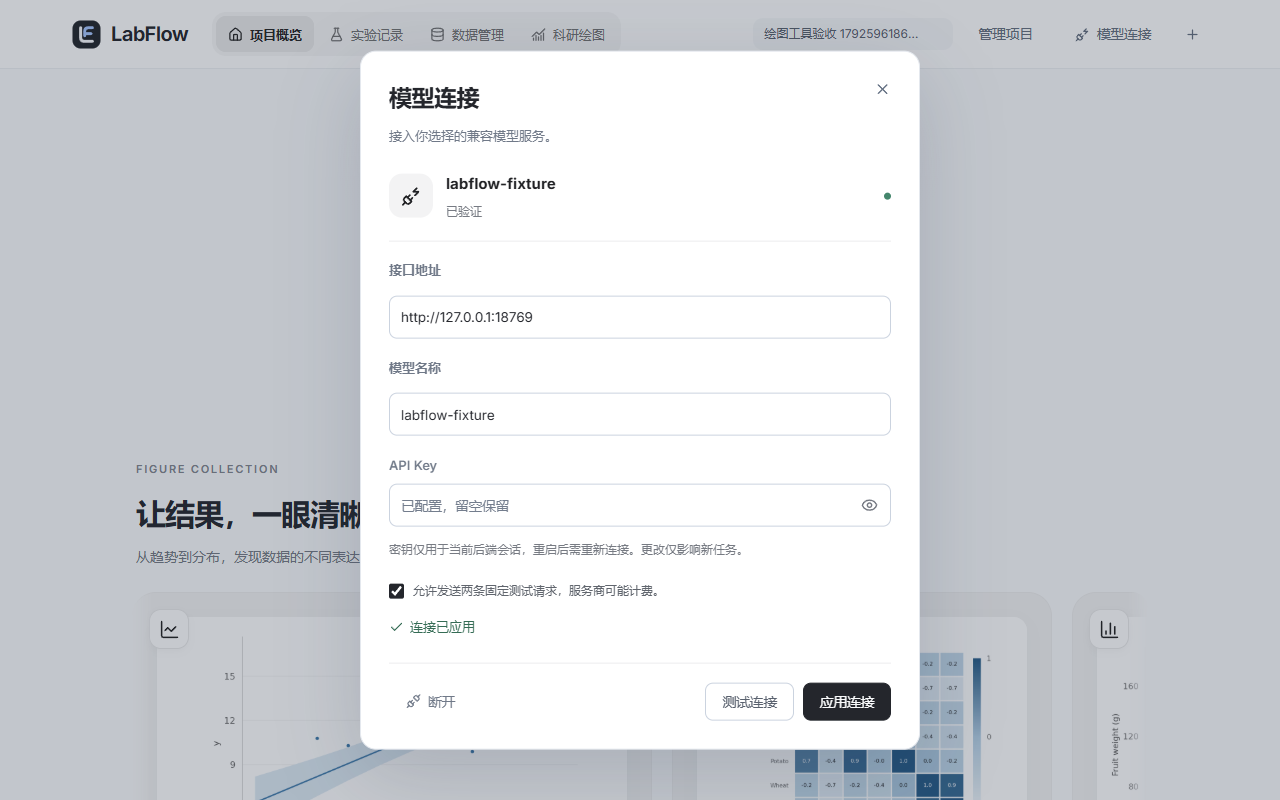
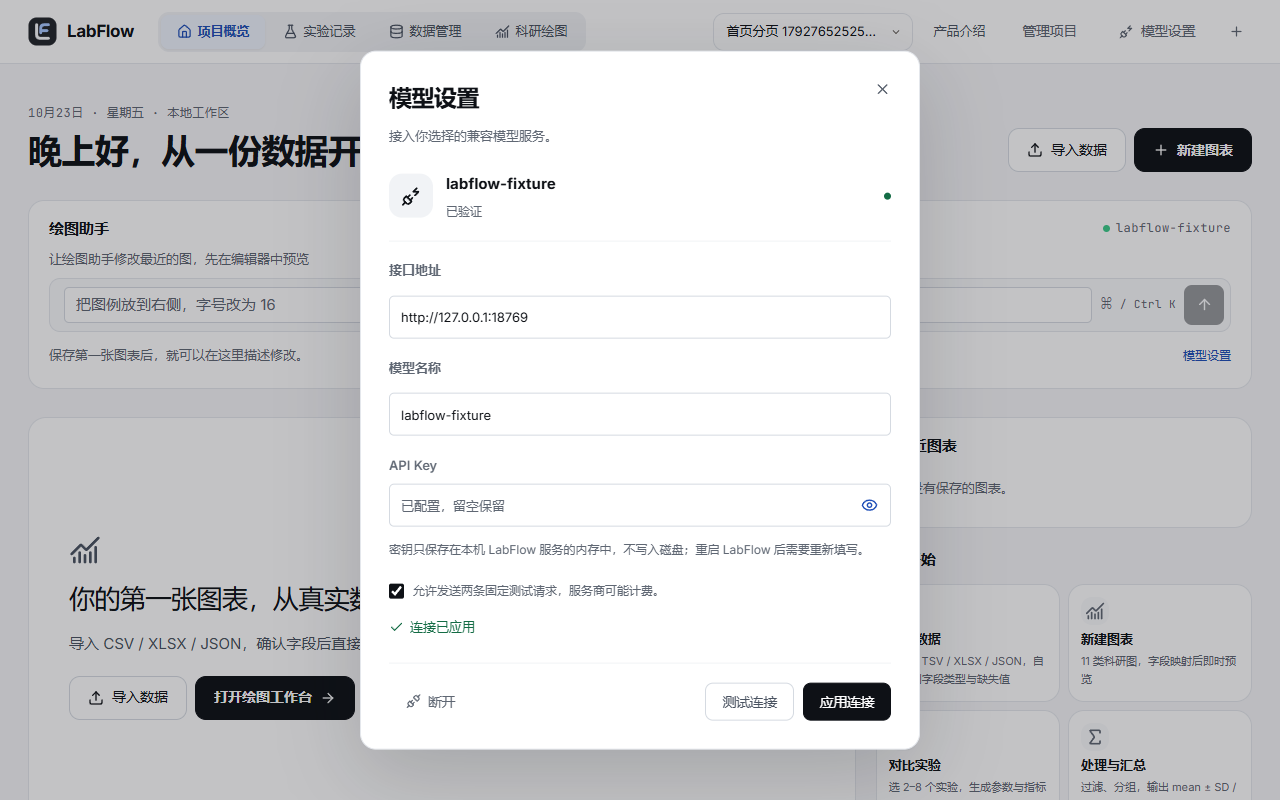
refactor(11-4): speak one vocabulary across the product

diff --git a/frontend/src/components/home/HomeSide.tsx b/frontend/src/components/home/HomeSide.tsx
@@ -85,7 +85,7 @@ export function AssistantCard({chartId,onAssistant,onModelConnection}:{chartId?:
     <div className="home-card-head"><h2 id="home-assistant-title">绘图助手</h2><span className="home-assistant-model lf-mono"><span className={`lf-dot ${provider.data?.available?'is-live':'is-off'}`}/>{provider.data?.available?provider.data.model:'未连接模型'}</span></div>
     <form onSubmit={submit} className="home-assistant-form"><label htmlFor="home-assistant-input">让绘图助手修改最近的图，先在编辑器中预览</label>
       <div className="home-assistant-field"><input ref={input} id="home-assistant-input" value={prompt} maxLength={2000} disabled={!ready} placeholder={examples[example]} onFocus={()=>setFocused(true)} onBlur={()=>setFocused(false)} onChange={e=>setPrompt(e.target.value)}/><kbd className="lf-mono">⌘ / Ctrl K</kbd><button type="submit" aria-label="在编辑器中打开助手" disabled={!ready||!prompt.trim()}><ArrowUp size={17}/></button></div>
-      <div className="home-command-notes">{!chartId?<p>保存第一张图表后，就可以在这里描述修改。</p>:!provider.data?.available?<p>配置模型连接后，即可向绘图助手描述调整。</p>:<div className="home-assistant-chips">{['图例放到右侧','隐藏网格线','整体字号改为 18'].map(text=><button key={text} type="button" onClick={()=>{setPrompt(text);input.current?.focus()}}>{text}</button>)}</div>}{onModelConnection&&<button type="button" className="home-link" onClick={onModelConnection}>{provider.data?.available?'模型设置':'配置模型连接'}</button>}</div>
+      <div className="home-command-notes">{!chartId?<p>保存第一张图表后，就可以在这里描述修改。</p>:!provider.data?.available?<p>完成模型设置后，即可向绘图助手描述调整。</p>:<div className="home-assistant-chips">{['图例放到右侧','隐藏网格线','整体字号改为 18'].map(text=><button key={text} type="button" onClick={()=>{setPrompt(text);input.current?.focus()}}>{text}</button>)}</div>}{onModelConnection&&<button type="button" className="home-link" onClick={onModelConnection}>模型设置</button>}</div>
     </form>
   </section>;
 }

diff --git a/frontend/e2e/model-connection.spec.ts b/frontend/e2e/model-connection.spec.ts
@@ -30,8 +30,11 @@ test("web connection settings → two real HTTP probes → verified apply → se
   const original = await setup(request);
   try {
     await page.goto("/");
-    await page.getByRole("button", { name: "模型连接", exact: true }).click();
-    const dialog = page.getByRole("dialog", { name: "模型连接" });
+    await page
+      .locator(".masthead")
+      .getByRole("button", { name: "模型设置", exact: true })
+      .click();
+    const dialog = page.getByRole("dialog", { name: "模型设置" });
     await expect(dialog.getByLabel("模型名称", { exact: true })).toHaveValue(
       "labflow-fixture",
     );
@@ -76,7 +79,10 @@ test("web connection settings → two real HTTP probes → verified apply → se
     ).toBeInViewport();
     await page.setViewportSize({ width: 1560, height: 1000 });
     await dialog.getByRole("button", { name: "关闭", exact: true }).click();
-    await page.getByRole("button", { name: "模型连接", exact: true }).click();
+    await page
+      .locator(".masthead")
+      .getByRole("button", { name: "模型设置", exact: true })
+      .click();
     await expect(dialog.getByText("已验证", { exact: true })).toBeVisible();
     await expect(dialog.getByLabel("API Key", { exact: true })).toHaveValue("");
     await dialog.getByRole("button", { name: "断开", exact: true }).click();
@@ -121,9 +127,9 @@ test("editor settings expose real authentication failure without replacing the w
   await page.getByRole("button", { name: "绘图助手", exact: true }).click();
   const assistant = page.getByRole("complementary", { name: "绘图助手" });
   await assistant
-    .getByRole("button", { name: "模型连接", exact: true })
+    .getByRole("button", { name: "模型设置", exact: true })
     .click();
-  const dialog = page.getByRole("dialog", { name: "模型连接" });
+  const dialog = page.getByRole("dialog", { name: "模型设置" });
   await dialog.getByLabel("API Key", { exact: true }).fill("fixture-rejected");
   await dialog.getByRole("checkbox").check();
   await dialog.getByRole("button", { name: "测试连接", exact: true }).click();

diff --git a/frontend/src/components/ChartPlanner.tsx b/frontend/src/components/ChartPlanner.tsx
@@ -225,14 +225,14 @@ export default function ChartPlanner(p: {
         }}
         closeDisabled={saving || submitting}
         title="选择绘图方案"
-        description="先看数据适合怎样表达，再决定创建哪张图。"
+        description="先看数据适合怎样表达，再决定创建哪种图表。"
         wide
         className="chart-planner"
       >
         <div className="planner-source">
           <b>{p.data.filename}</b>
           <span>
-            数据版本 v{p.data.version} · {p.data.row_count.toLocaleString()} 行
+            v{p.data.version} · {p.data.row_count.toLocaleString()} 行
             · {p.data.fields.length} 个字段
           </span>
         </div>
@@ -247,7 +247,7 @@ export default function ChartPlanner(p: {
               variant="ghost"
               onClick={() => setConnection(true)}
             >
-              配置模型
+              模型设置
             </Button>
           </div>
           <label>
@@ -322,8 +322,8 @@ export default function ChartPlanner(p: {
           {!provider.data?.available && (
             <p className="muted">
               {provider.isError
-                ? "无法读取模型连接状态。"
-                : "配置模型后可获取推荐；也可以直接在下方手动选图。"}
+                ? "无法读取模型设置状态。"
+                : "完成模型设置后可获取推荐；也可以直接在下方手动选图。"}
             </p>
           )}
           {active && (

diff --git a/frontend/src/editor/ReuseDialog.tsx b/frontend/src/editor/ReuseDialog.tsx
@@ -201,7 +201,7 @@ export function ReuseDialog(p: {
               <div>
                 <h3>
                   {tab === "builtin"
-                    ? "找到适合这张图的表达"
+                    ? "找到适合这张图表的表达"
                     : "把好用的样式留给下一次"}
                 </h3>
                 <p>
@@ -412,7 +412,7 @@ export function ReuseDialog(p: {
                 <p>
                   {search
                     ? "试试其他关键词，或切换到全部项目。"
-                    : "调整好一张图后，保存它的外观，下次直接使用。"}
+                    : "调整好一张图表后，保存它的外观，下次直接使用。"}
                 </p>
                 {!search && (
                   <Button variant="outline" onClick={() => setCreating(true)}>
@@ -549,9 +549,9 @@ export function ReuseDialog(p: {
       ) : (
         <div className="style-reuse-body">
           <label>
-            目标数据版本
+            目标版本
             <select
-              aria-label="复用目标数据版本"
+              aria-label="复用目标版本"
               value={target}
               onChange={(e) => {
                 setTarget(Number(e.target.value));

diff --git a/frontend/src/editor/AgentAssistant.tsx b/frontend/src/editor/AgentAssistant.tsx
@@ -294,7 +294,7 @@ export function AgentAssistant(p: {
         (restored.session.dataset_version_id !== now.data.id ||
           restored.session.chart_id !== now.chartId)
       )
-        throw new Error("恢复记录不属于当前图表或数据版本");
+        throw new Error("恢复记录不属于当前图表或版本");
       const capture = (baseline: NonNullable<typeof restored.baseline>) => ({
         config: baseline.config,
         token:
@@ -521,7 +521,7 @@ export function AgentAssistant(p: {
       <Button
         variant="ghost"
         size="icon"
-        aria-label="模型连接"
+        aria-label="模型设置"
         disabled={busy}
         onClick={() => setConnectionOpen(true)}
       >
@@ -877,7 +877,7 @@ export function AgentAssistant(p: {
                       variant="outline"
                       onClick={() => setConnectionOpen(true)}
                     >
-                      配置模型
+                      模型设置
                     </Button>
                   </div>
                 )

diff --git a/frontend/src/editor/AgentAssistant.test.tsx b/frontend/src/editor/AgentAssistant.test.tsx
@@ -5,6 +5,7 @@ import {
   render,
   screen,
   waitFor,
+  within,
 } from "@testing-library/react";
 import { QueryClient, QueryClientProvider } from "@tanstack/react-query";
 import { AgentAssistant, type AgentRun } from "./AgentAssistant";
@@ -314,7 +315,12 @@ it("shows honest setup guidance when no provider is configured", async () => {
   }));
   await screen.findByText("连接模型后即可通过对话调整图表。");
   expect(screen.getByRole("button", { name: "生成调整提案" })).toBeDisabled();
-  expect(screen.getByRole("button", { name: "配置模型" })).toBeVisible();
+  expect(
+    within(screen.getByText("连接模型后即可通过对话调整图表。").closest(".agent-setup")!).getByRole(
+      "button",
+      { name: "模型设置" },
+    ),
+  ).toBeVisible();
   expect(screen.queryByText(/LABFLOW_AGENT_MODEL/)).not.toBeInTheDocument();
 });
 it("does not apply a draft if persisting the acceptance decision fails", async () => {

diff --git a/frontend/src/experiments/Experiments.tsx b/frontend/src/experiments/Experiments.tsx
@@ -111,7 +111,7 @@ export function Experiments({
         <>
           <PageHeader
             title="实验记录"
-            description="参数、指标和数据版本关联在一起，可以选择 2–8 个实验进行对比。"
+            description="参数、指标和版本关联在一起，可以选择 2–8 个实验进行对比。"
             actions={
               <>
                 <Button variant="outline" onClick={() => onData()}>
@@ -327,7 +327,7 @@ export function Experiments({
                           <ArrowUpRight size={12} />
                         </button>
                       ))}
-                      {!r.datasets.length && <small>尚未关联数据版本</small>}
+                      {!r.datasets.length && <small>尚未关联版本</small>}
                     </div>
                   </div>
                 </article>

diff --git a/frontend/src/experiments/ExperimentForm.tsx b/frontend/src/experiments/ExperimentForm.tsx
@@ -82,7 +82,7 @@ export function ExperimentForm({
         if (!v && !busy) onClose();
       }}
       title={edit.id ? "编辑实验记录" : "新建实验记录"}
-      description="记录参数、指标和固定的数据版本，让每次实验都有清楚的来源。"
+      description="记录参数、指标和固定的版本，让每次实验都有清楚的来源。"
     >
       <form onSubmit={save}>
         <fieldset disabled={busy} className="experiment-form-body">
@@ -138,7 +138,7 @@ export function ExperimentForm({
           />
           <section className="object-fields">
             <div className="form-section-head">
-              <h3>关联数据版本</h3>
+              <h3>关联版本</h3>
               <span>{edit.dataset_version_ids.length} 个已选</span>
             </div>
             <input

diff --git a/frontend/src/components/home/HomePage.test.tsx b/frontend/src/components/home/HomePage.test.tsx
@@ -122,12 +122,12 @@ it("pins the current project, searches and shows more projects", () => {
   expect(rows()[0]).toHaveAttribute("aria-pressed", "true");
   fireEvent.click(screen.getByRole("button", { name: /显示更多项目/ }));
   expect(rows()).toHaveLength(12);
-  fireEvent.change(screen.getByLabelText("搜索工作区项目"), {
+  fireEvent.change(screen.getByLabelText("搜索研究项目"), {
     target: { value: "Research 24" },
   });
   fireEvent.click(screen.getByRole("button", { name: /Research 24/ }));
   expect(p.onProject).toHaveBeenCalledWith(24);
-  fireEvent.change(screen.getByLabelText("搜索工作区项目"), {
+  fireEvent.change(screen.getByLabelText("搜索研究项目"), {
     target: { value: "missing" },
   });
   expect(screen.getByText(/没有匹配的项目/)).toBeVisible();

diff --git a/frontend/src/components/ProjectBackup.tsx b/frontend/src/components/ProjectBackup.tsx
@@ -119,9 +119,9 @@ export function ProjectBackup({
           <b>{preview.name}</b>
           <p>
             {preview.counts.experiments} 条实验 ·{" "}
-            {preview.counts.dataset_versions} 个数据版本 ·{" "}
-            {preview.counts.charts} 张图 / {preview.counts.chart_versions}{" "}
-            个快照 · {preview.counts.style_templates} 个样式
+            {preview.counts.dataset_versions} 个版本 ·{" "}
+            {preview.counts.charts} 张图表 / {preview.counts.chart_versions}{" "}
+            个版本 · {preview.counts.style_templates} 个样式
           </p>
           <small>
             原文件合计 {(preview.original_bytes / 1024).toFixed(1)}{" "}

diff --git a/frontend/src/editor/workbench/inspector/AxesTab.tsx b/frontend/src/editor/workbench/inspector/AxesTab.tsx
@@ -156,8 +156,8 @@ export function AxesTab({
             {evaluation && (
               <p className="tiny-note">
                 {c.type === "confusion"
-                  ? "混淆矩阵使用离散类别轴；普通图的范围和对数设置已保留。"
-                  : "评估曲线使用线性 0–1 坐标；普通图的范围和对数设置已保留。"}
+                  ? "混淆矩阵使用离散类别轴；普通图表的范围和对数设置已保留。"
+                  : "评估曲线使用线性 0–1 坐标；普通图表的范围和对数设置已保留。"}
               </p>
             )}
             {axis === "x" && (c.type === "box" || c.type === "violin") && (

diff --git a/frontend/src/editor/workbench/FigureCanvas.tsx b/frontend/src/editor/workbench/FigureCanvas.tsx
@@ -193,13 +193,13 @@ export function FigureCanvas({
               {c.type === "heatmap"
                 ? 1
                 : c.series.filter((s) => s.visible).length}{" "}
-              个图层
+              个序列
             </span>
             <span>点击曲线选择序列 · 样式即时更新</span>
           </div>
         </div>
         {(c.datasetVersionId !== data.id || !rendered) && !plotError && (
-          <div className="canvas-loading">正在读取所选数据版本…</div>
+          <div className="canvas-loading">正在读取所选版本…</div>
         )}
         {plotError && (
           <div className="canvas-error" role="alert">
